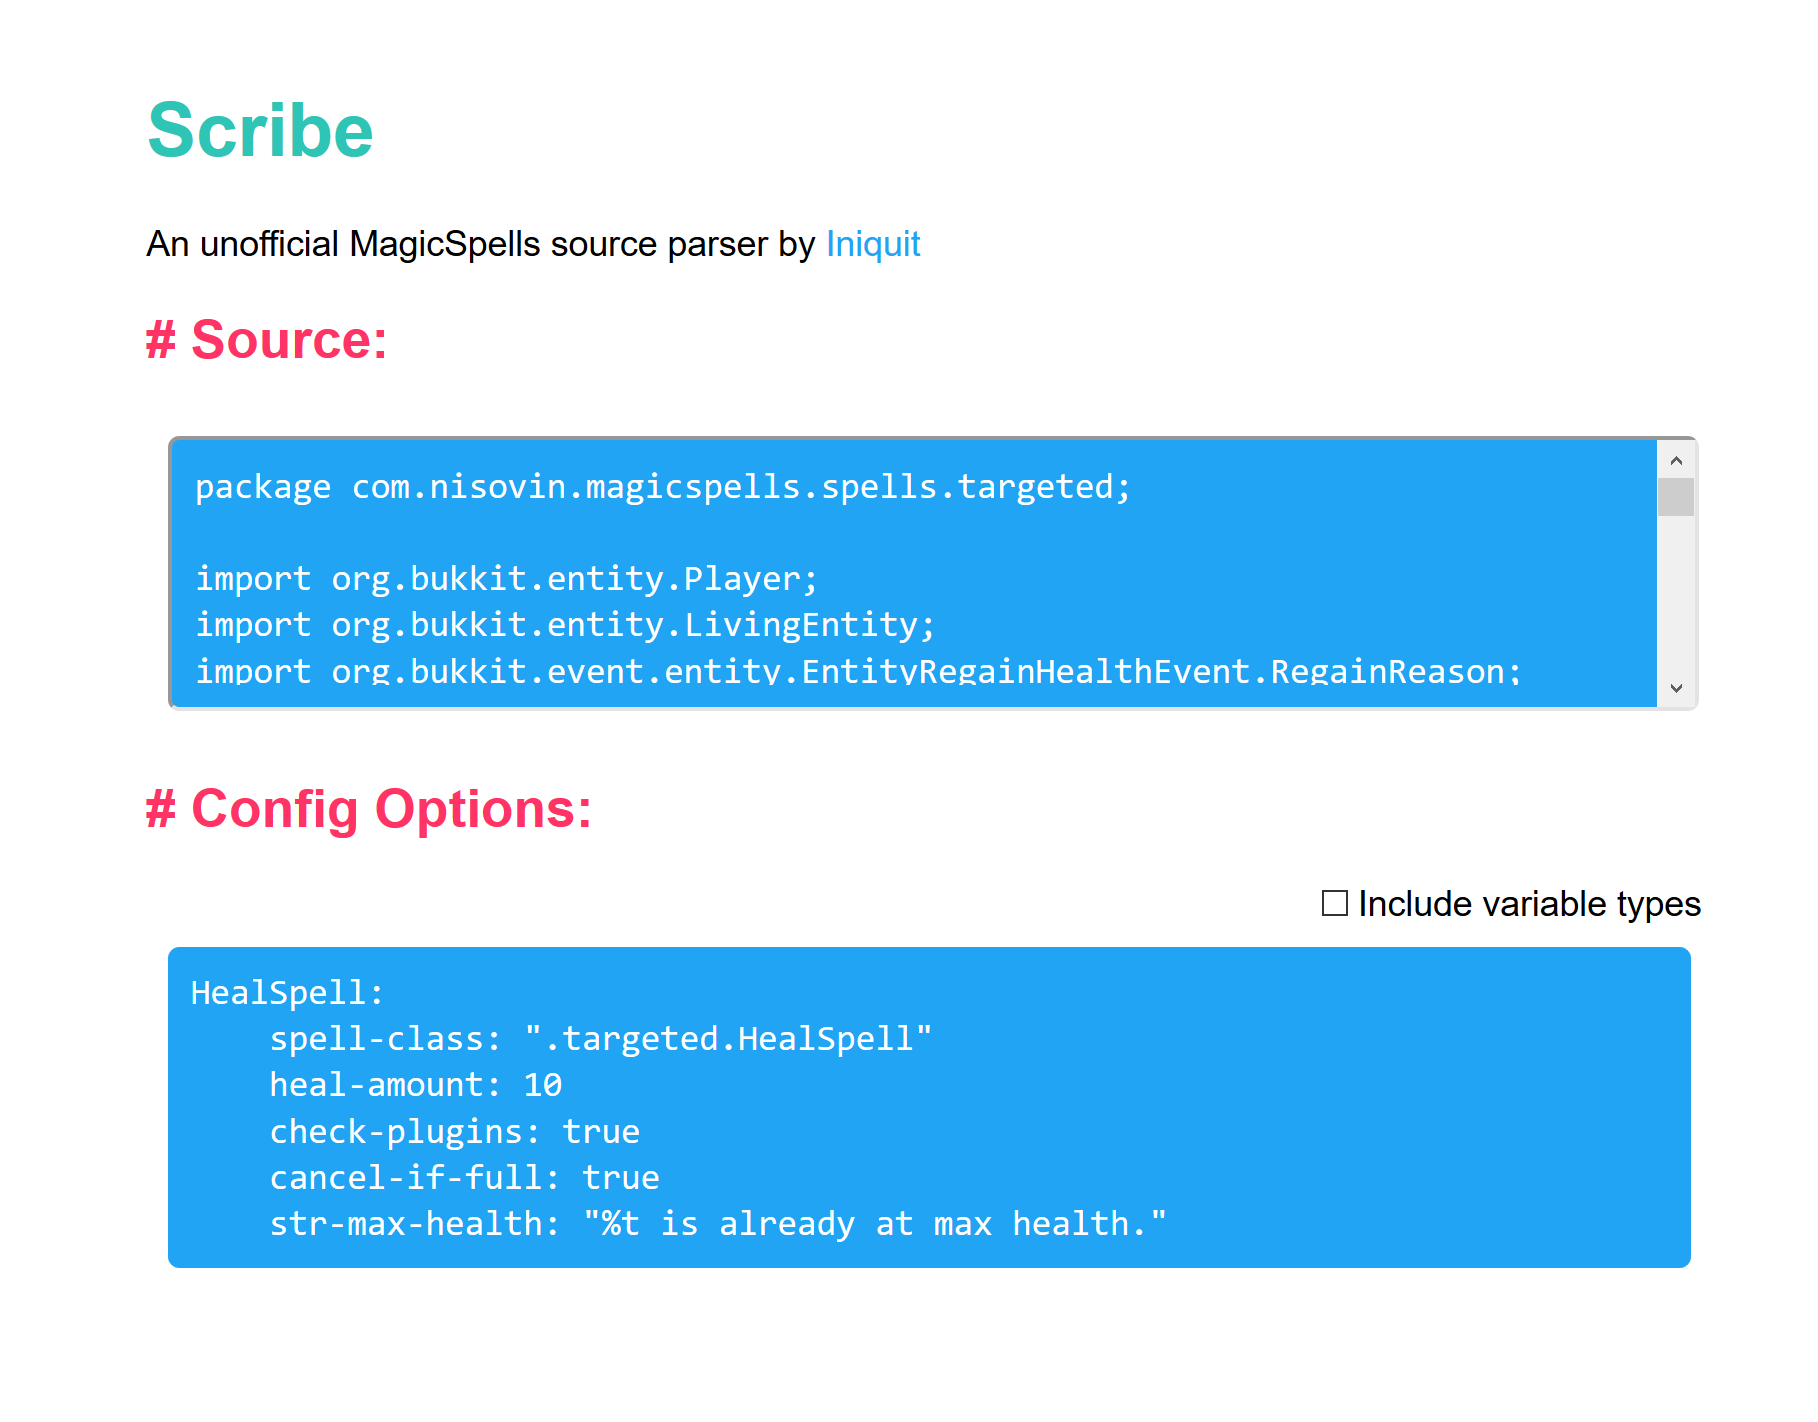
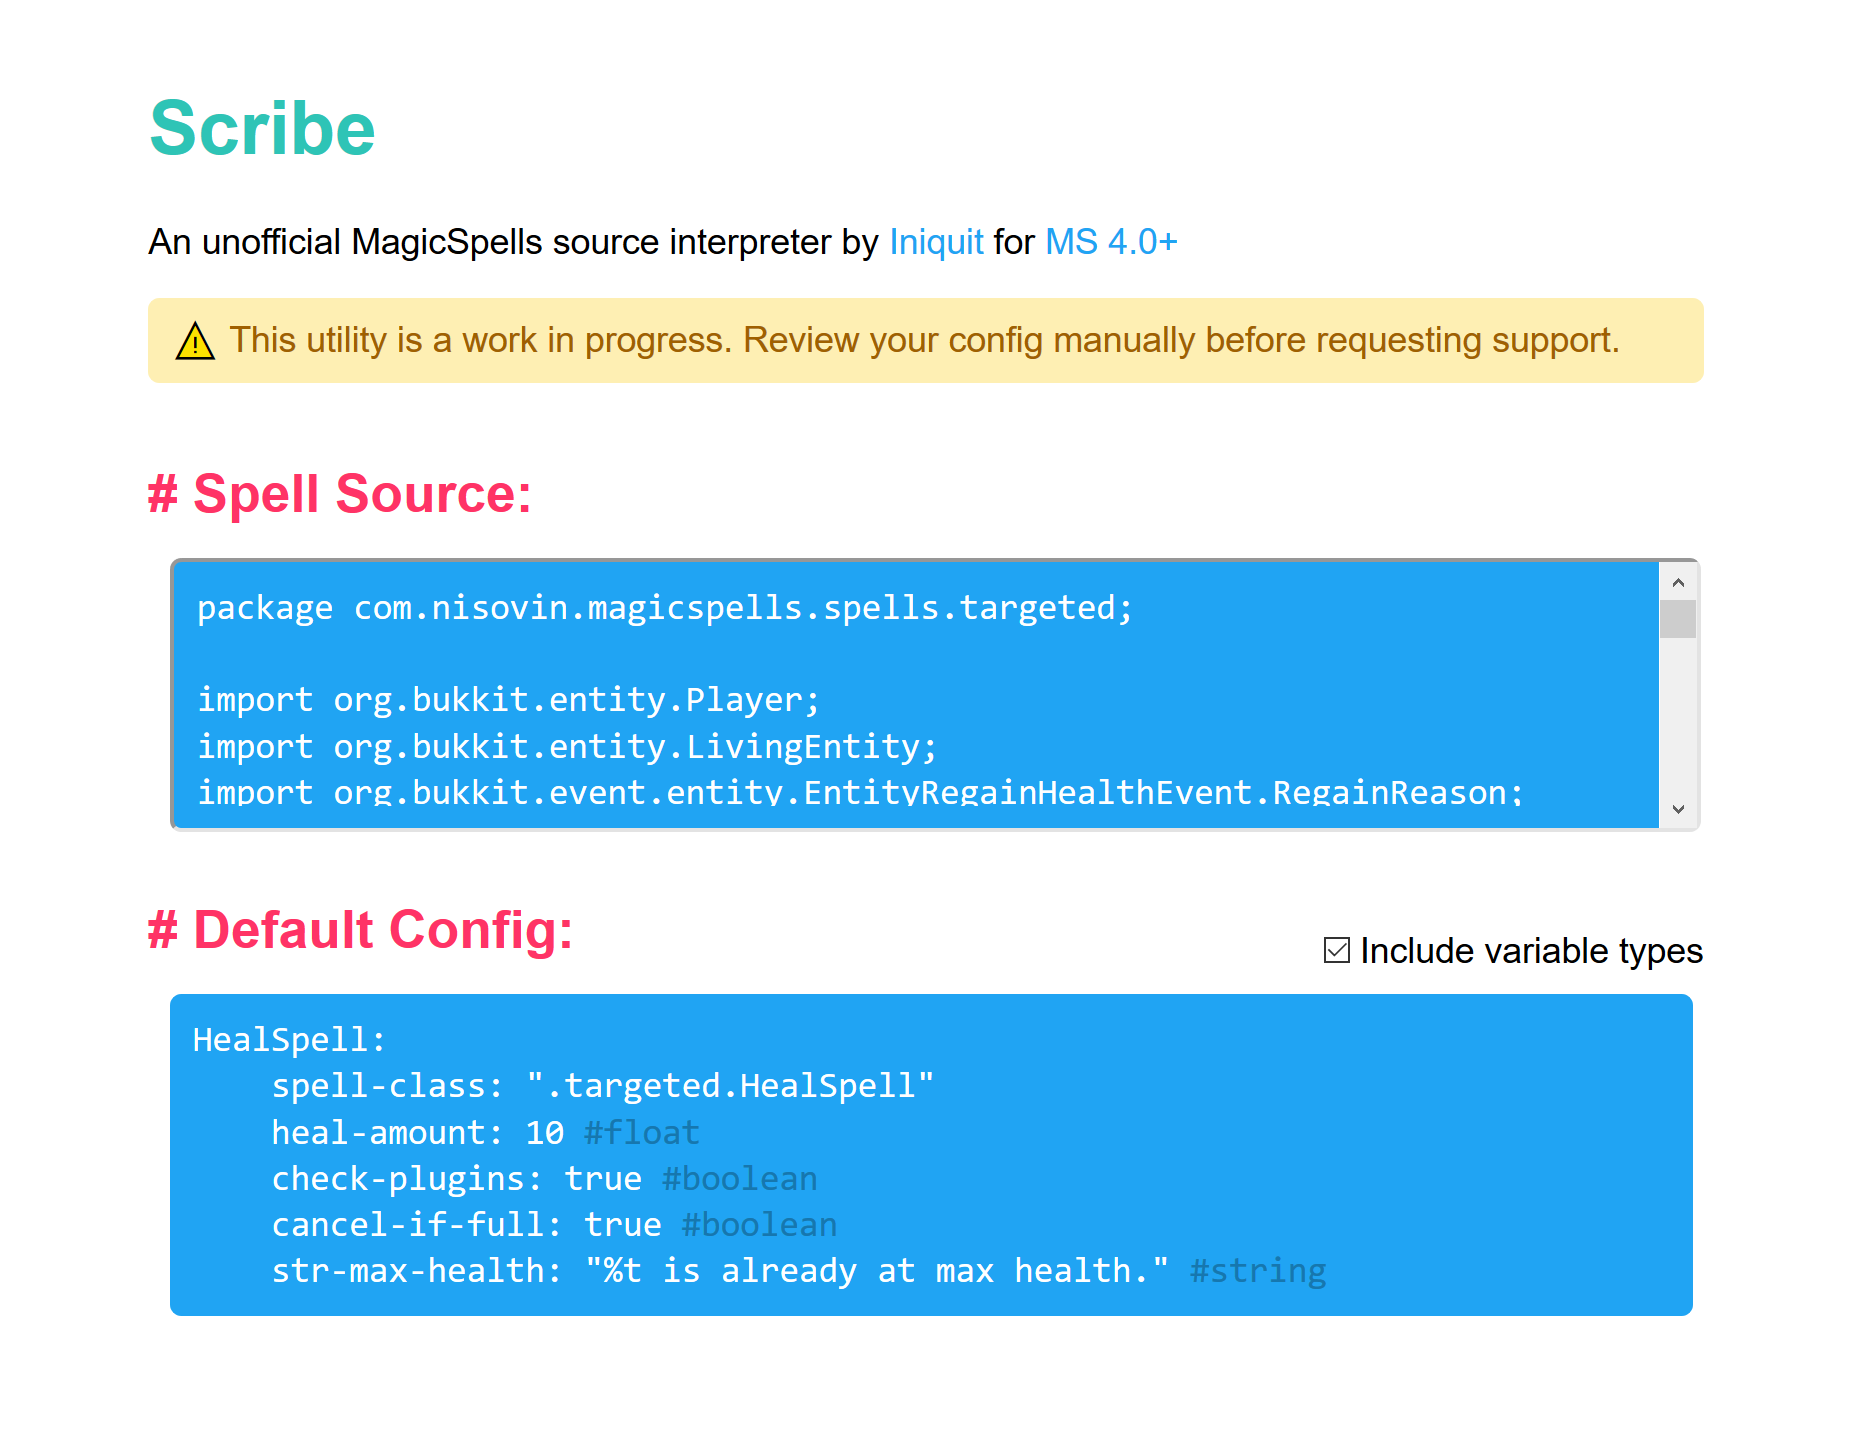
Update layout & picture

diff --git a/index.html b/index.html
@@ -3,7 +3,7 @@
     <head>
         <meta charset="UTF-8">
         <meta content="Scribe" property="og:title">
-        <meta content="An unofficial MagicSpells source parser by Iniquit" property="og:description">
+        <meta content="An unofficial MagicSpells source interpreter by Iniquit" property="og:description">
         <meta content='scribe.png' property='og:image'>
         <title>Scribe</title>
         <link rel="stylesheet" href="normalize.css">
@@ -12,9 +12,55 @@
     </head>
     <body>
         <h1>Scribe</h1>
-        <p>An unofficial MagicSpells source parser by <a href="https://github.com/Iniquit" target="_blank">Iniquit</a> for <a href="https://github.com/TheComputerGeek2/MagicSpells/tree/4.0/core/src/main/java/com/nisovin/magicspells/spells" target="_blank">MS 4.0+</a></p>
+        <p>An unofficial MagicSpells source interpreter by <a href="https://github.com/Iniquit" target="_blank">Iniquit</a> for <a href="https://github.com/TheComputerGeek2/MagicSpells/tree/4.0/core/src/main/java/com/nisovin/magicspells/spells" target="_blank">MS 4.0+</a></p>
         <p class="warn">⚠ This utility is a work in progress. Review your config manually before requesting support.</p>
-        <h2># Source:</h2>
+        <div class="aligner">
+        <h2># Spell Source:</h2>
+         <!--<select class="spelldropdown">
+          <optgroup label="Instant">
+            <option value="BeamSpell">BeamSpell</option>
+            <option value="BlockBeamSpell">BlockBeamSpell</option>
+            <option value="CastAtMarkSpell">CastAtMarkSpell</option>
+            <option value="ConfusionSpell">ConfusionSpell</option>
+            <option value="ConjureBookSpell">ConjureBookSpell</option>
+            <option value="ConjureFireworkSpell">ConjureFireworkSpell</option>
+            <option value="ConjureSpell">ConjureSpell</option>
+            <option value="CraftSpell">CraftSpell</option>
+            <option value="DowseSpell">DowseSpell</option>
+            <option value="DummySpell">DummySpell</option>
+            <option value="EnchantSpell">EnchantSpell</option>
+            <option value="EnderchestSpell">EnderchestSpell</option>
+            <option value="FlightPathSpell">FlightPathSpell</option>
+            <option value="FoodSpell">FoodSpell</option>
+            <option value="ForcepushSpell">ForcepushSpell</option>
+            <option value="GateSpell">GateSpell</option>
+            <option value="ItemProjectileSpell">ItemProjectileSpell</option>
+            <option value="LeapSpell">LeapSpell</option>
+            <option value="MagnetSpell">MagnetSpell</option>
+            <option value="ManaSpell">ManaSpell</option>
+            <option value="MarkSpell">MarkSpell</option>
+            <option value="ParticleProjectileSpell">ParticleProjectileSpell</option>
+            <option value="PhaseSpell">PhaseSpell</option>
+            <option value="PortalSpell">PortalSpell</option>
+            <option value="ProjectileSpell">ProjectileSpell</option>
+            <option value="PurgeSpell">PurgeSpell</option>
+            <option value="RecallSpell">RecallSpell</option>
+            <option value="RepairSpell">RepairSpell</option>
+            <option value="RitualSpell">RitualSpell</option>
+            <option value="RoarSpell">RoarSpell</option>
+            <option value="SteedSpell">SteedSpell</option>
+            <option value="ThrowBlockSpell">ThrowBlockSpell</option>
+            <option value="TimeSpell">TimeSpell</option>
+            <option value="UnconjureSpell">UnconjureSpell</option>
+            <option value="VariableCastSpell">VariableCastSpell</option>
+            <option value="VelocitySpell">VelocitySpell</option>
+            <option value="WallSpell">WallSpell</option>
+        </optgroup>
+
+          <optgroup label="Targeted">
+              <option value="HealSpell" selected="selected">HealSpell</option>
+        </select>-->
+        </div>
         <!--<p><a href="https://github.com/TheComputerGeek2/MagicSpells/tree/master/src/com/nisovin/magicspells/spells">(What can I paste here?)</a></p>-->
 
         <form>
@@ -117,11 +163,10 @@ public class HealSpell extends TargetedSpell implements TargetedEntitySpell {
         </form>
         
 
-
-<h2># Config Options:</h2>
-<div style="text-align: right">
-<input type="checkbox" id="myCheck" onchange="checkShowVariableTypes()" >
-  <label for="myCheck">Include variable types</label>
+<div class="aligner">
+<h2># Default Config:</h2>
+<div><input type="checkbox" id="myCheck" onchange="checkShowVariableTypes()" >
+  <label for="myCheck">Include variable types</label></div>
   </div>
 <!--<button onclick="myFunction()">Click me</button--> 
 <pre class="demo"></pre>

diff --git a/styles.css b/styles.css
@@ -18,7 +18,9 @@ h1{
 
  h2{
   color: #ff3366;
+  margin-bottom: 5px;
 }
+ 
 
  body{
   font-family: 'Arial', sans-serif; 
@@ -76,4 +78,10 @@ h1{
     background-color: #FEEFB3;
     border-radius: 5px;
     padding: 10px;
+  }
+
+  .aligner{
+    display: flex;
+    justify-content: space-between;
+    align-items: flex-end;
   }

diff --git a/script.js b/script.js
@@ -98,4 +98,11 @@ document.getElementsByClassName("demo")[0].innerHTML = spellname + ":\n" + outpu
 
 }
 
+
+const selectElement = document.querySelector('.spelldropdown');
+
+selectElement.addEventListener('change', (event) => {
+    myFunction();
+});
+
 //myFunction()
